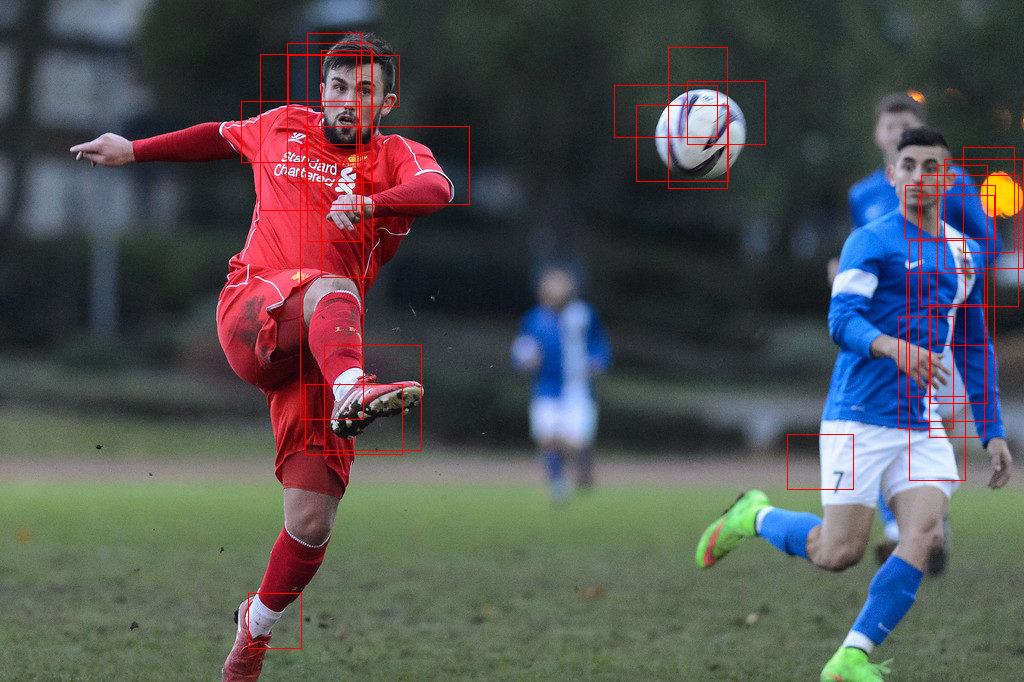
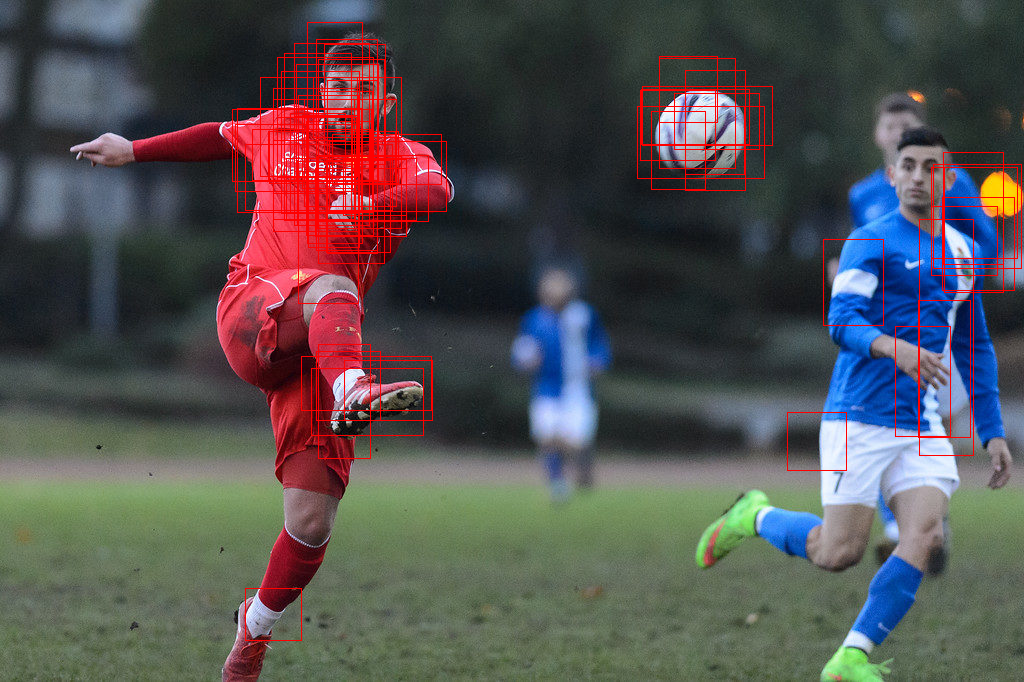
examples generated

diff --git a/ransac_bounding_boxes.py b/ransac_bounding_boxes.py
@@ -16,6 +16,8 @@ import numpy as np
 from saliencyDoG import SaliencyDoG
 
 ##########################################################################
+
+#https://www.pyimagesearch.com/2015/02/16/faster-non-maximum-suppression-python/
 # Malisiewicz et al.
 def non_max_suppression_fast(boxes, overlapThresh):
 	# if there are no boxes, return an empty list
@@ -63,7 +65,7 @@ def non_max_suppression_fast(boxes, overlapThresh):
 	# integer data type
 	return boxes[pick].astype("int")
 
-def ransac_bounding_boxes(img, min_box=50, threashold=40, samples=10000,
+def ransac_bounding_boxes(img, min_box=50, threashold=45, samples=100000,
                           box_colour=(0, 0, 255), box_line_thickness=1):
 
     # read in an image, generate it's saliency map and place bounding
@@ -131,8 +133,8 @@ def ransac_bounding_boxes(img, min_box=50, threashold=40, samples=10000,
                 boxes.append([x1, y1, x2, y2])
 
 
-    indices = non_max_suppression_fast(np.asarray(boxes), 0.99)
-    print(indices)
+    indices = non_max_suppression_fast(np.asarray(boxes), 0.4)
+#    print(indices)
 #            confidences.append(box_saliency_density)
 
 #    indices = cv2.dnn.NMSBoxes(boxes, confidences, threashold, 0.01)
@@ -178,12 +180,23 @@ if __name__ == "__main__":
     ##########################################################################
 
     # read in image
-    img = cv2.imread(args.image_file)
+#    img = cv2.imread(args.image_file)
 
     # generate bounding boxes
-    output = ransac_bounding_boxes(img)
+#    output = ransac_bounding_boxes(img)
 
-    cv2.imwrite("BoundingBoxes.png", output)
-    cv2.waitKey(0)
+    img = cv2.imread("test/samples/boat.jpg")
+#    cv2.imwrite("boat_box.png", ransac_bounding_boxes(img, 5, 50))
+
+    img = cv2.imread("test/samples/car.jpg")
+#    cv2.imwrite("car_box.png", ransac_bounding_boxes(img, 100, 50))
+
+    img = cv2.imread("test/samples/fig_2.png")
+#    cv2.imwrite("fig_2_box.png", ransac_bounding_boxes(img, 50, 70))
+
+    img = cv2.imread("test/samples/footballers.jpg")
+    cv2.imwrite("footballers_box.png", ransac_bounding_boxes(img, 25, 45))
+#    cv2.imwrite("BoundingBoxes.png", output)
+#    cv2.waitKey(0)
 
 ##########################################################################
